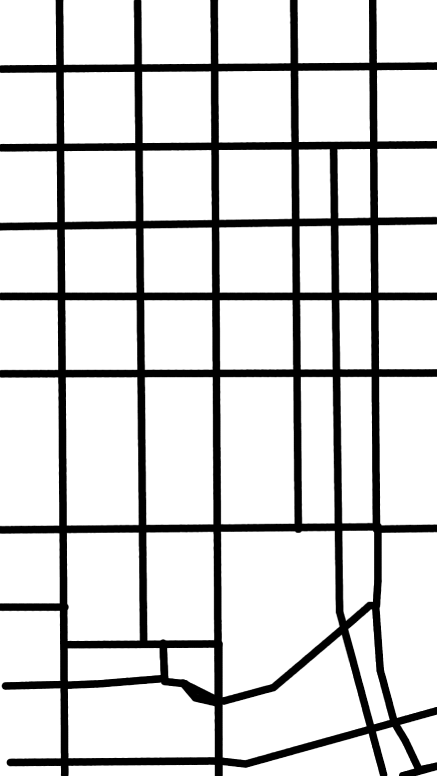
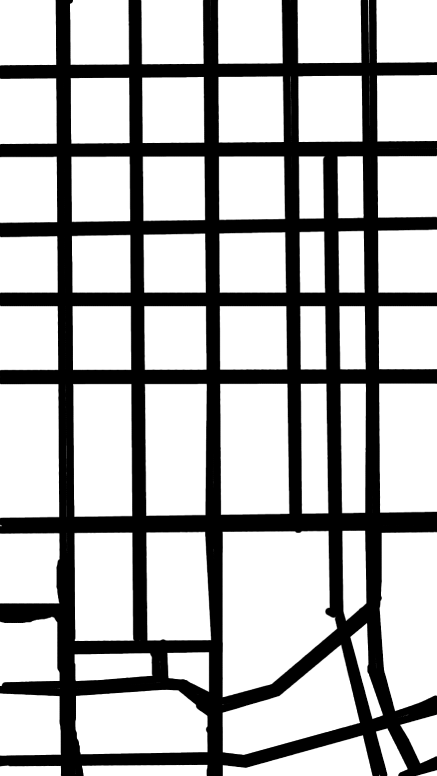
wider roads, refactoring, boundary logic

Changed region(s): [[0.0, 0.0, 1.0, 1.0]]

diff --git a/map.py b/map.py
@@ -41,9 +41,6 @@ last_reward = 0
 scores = []
 im = CoreImage("./images/white_road.png")
 
-# textureMask = CoreImage(source="./kivytest/simplemask1.png")
-
-
 # Initializing the map
 first_update = True
 def init():
@@ -51,13 +48,17 @@ def init():
     global goal_x
     global goal_y
     global first_update
-    sand = np.zeros((longueur,largeur))
+    global downtown_disney_city
+    global adventure_city
+    global swap
+
+    downtown_disney_city = (685,132)
+    adventure_city = (76,206)
+    sand = np.zeros((longitude,latitude))
     img = PILImage.open("./images/mask_right_rotated.png").convert('L')
     sand = np.asarray(img)/255
-    goal_x = 380
-    goal_y = 218
+    goal_x, goal_y = downtown_disney_city
     first_update = False
-    global swap
     swap = 0
 
 
@@ -67,7 +68,7 @@ last_distance = 0
 # Creating the car class
 
 class Car(Widget):
-    
+
     angle = NumericProperty(0)
     rotation = NumericProperty(0)
     velocity_x = NumericProperty(0)
@@ -96,19 +97,24 @@ class Car(Widget):
         self.signal1 = int(np.sum(sand[int(self.sensor1_x)-10:int(self.sensor1_x)+10, int(self.sensor1_y)-10:int(self.sensor1_y)+10]))/400.
         self.signal2 = int(np.sum(sand[int(self.sensor2_x)-10:int(self.sensor2_x)+10, int(self.sensor2_y)-10:int(self.sensor2_y)+10]))/400.
         self.signal3 = int(np.sum(sand[int(self.sensor3_x)-10:int(self.sensor3_x)+10, int(self.sensor3_y)-10:int(self.sensor3_y)+10]))/400.
-        if self.sensor1_x>longueur-10 or self.sensor1_x<10 or self.sensor1_y>largeur-10 or self.sensor1_y<10:
+        if self.sensor1_x>longitude-10 or self.sensor1_x<10 or self.sensor1_y>latitude-10 or self.sensor1_y<10:
             self.signal1 = 10.
-        if self.sensor2_x>longueur-10 or self.sensor2_x<10 or self.sensor2_y>largeur-10 or self.sensor2_y<10:
+        if self.sensor2_x>longitude-10 or self.sensor2_x<10 or self.sensor2_y>latitude-10 or self.sensor2_y<10:
             self.signal2 = 10.
-        if self.sensor3_x>longueur-10 or self.sensor3_x<10 or self.sensor3_y>largeur-10 or self.sensor3_y<10:
+            # rotate car on boundaries
+            self.rotation = 90
+        if self.sensor3_x>longitude-10 or self.sensor3_x<10 or self.sensor3_y>latitude-10 or self.sensor3_y<10:
             self.signal3 = 10.
-        
+
 
 class Ball1(Widget):
     pass
 class Ball2(Widget):
     pass
 class Ball3(Widget):
+    pass
+
+class Destination(Widget):
     pass
 
 # Creating the game class
@@ -119,9 +125,7 @@ class Game(Widget):
     ball1 = ObjectProperty(None)
     ball2 = ObjectProperty(None)
     ball3 = ObjectProperty(None)
-
-    disney_land = (718,262)
-    adventure_city = (75,226)
+    destination = ObjectProperty(None)
 
     def serve_car(self):
         self.car.center = self.center
@@ -135,16 +139,16 @@ class Game(Widget):
         global last_distance
         global goal_x
         global goal_y
-        global longueur
-        global largeur
+        global longitude
+        global latitude
         global swap
-        
 
-        longueur = self.width
-        largeur = self.height
+        longitude = self.width
+        latitude = self.height
         if first_update:
             init()
 
+        self.destination.pos = goal_x, goal_y
         xx = goal_x - self.car.x
         yy = goal_y - self.car.y
         orientation = Vector(*self.car.velocity).angle((xx,yy))/180.
@@ -161,7 +165,6 @@ class Game(Widget):
         if sand[int(self.car.x),int(self.car.y)] > 0:
             self.car.velocity = Vector(0.5, 0).rotate(self.car.angle)
             print(1, goal_x, goal_y, distance, int(self.car.x),int(self.car.y), im.read_pixel(int(self.car.x),int(self.car.y)))
-            
             last_reward = -1
         else: # otherwise
             self.car.velocity = Vector(2, 0).rotate(self.car.angle)
@@ -169,8 +172,9 @@ class Game(Widget):
             print(0, goal_x, goal_y, distance, int(self.car.x),int(self.car.y), im.read_pixel(int(self.car.x),int(self.car.y)))
             if distance < last_distance:
                 last_reward = 0.1
-            # else:
-            #     last_reward = last_reward +(-0.2)
+            else:
+                print('penalising')
+                last_reward = last_reward +(-0.2)
 
         if self.car.x < 5:
             self.car.x = 5
@@ -187,12 +191,15 @@ class Game(Widget):
 
         if distance < 25:
             if swap == 1:
-                goal_x, goal_y = self.disney_land
+                goal_x, goal_y = downtown_disney_city
+                self.destination.pos = downtown_disney_city
                 swap = 0
             else:
-                goal_x, goal_y = self.adventure_city
+                goal_x, goal_y = adventure_city
+                self.destination.pos = adventure_city
                 swap = 1
         last_distance = distance
+        pass
 
 # Adding the painting tools
 
@@ -209,6 +216,7 @@ class MyPaintWidget(Widget):
             n_points = 0
             length = 0
             sand[int(touch.x),int(touch.y)] = 1
+            print(touch.x, touch.y)
             img = PILImage.fromarray(sand.astype("uint8")*255)
             img.save("./images/sand.jpg")
 
@@ -224,7 +232,6 @@ class MyPaintWidget(Widget):
             touch.ud['line'].width = int(20 * density + 1)
             sand[int(touch.x) - 10 : int(touch.x) + 10, int(touch.y) - 10 : int(touch.y) + 10] = 1
 
-            
             last_x = x
             last_y = y
 
@@ -252,7 +259,7 @@ class CarApp(App):
     def clear_canvas(self, obj):
         global sand
         self.painter.canvas.clear()
-        sand = np.zeros((longueur,largeur))
+        sand = np.zeros((longitude,latitude))
 
     def save(self, obj):
         print("saving brain...")
